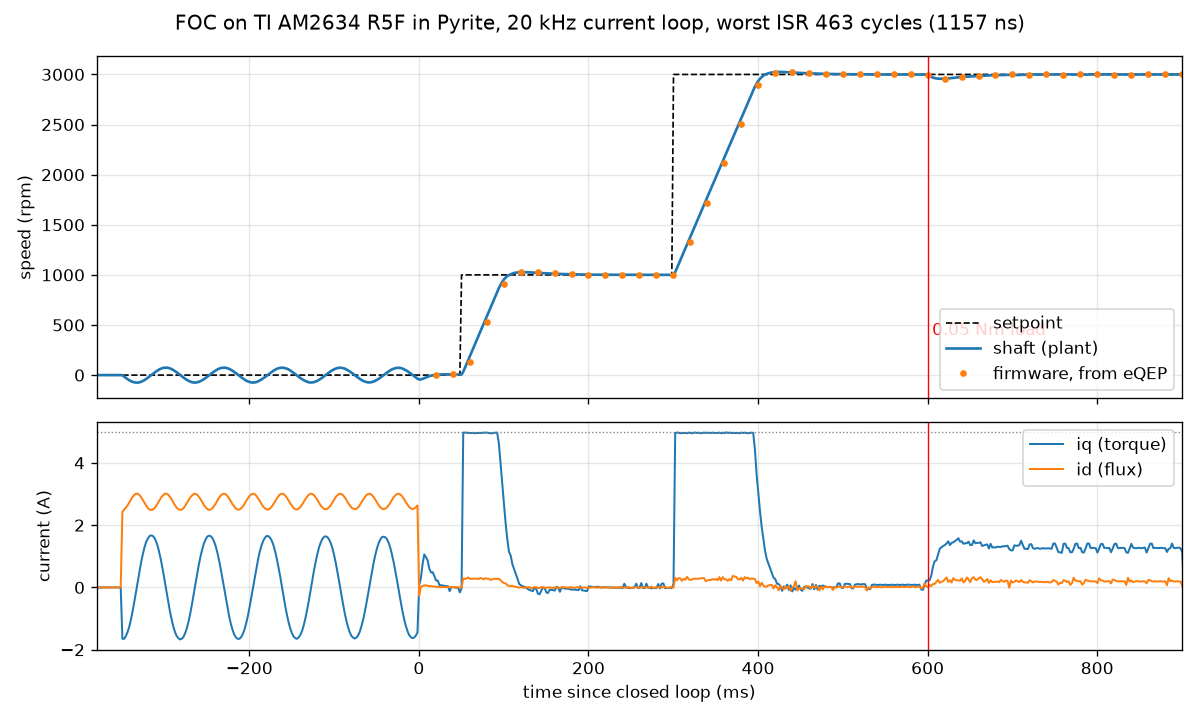
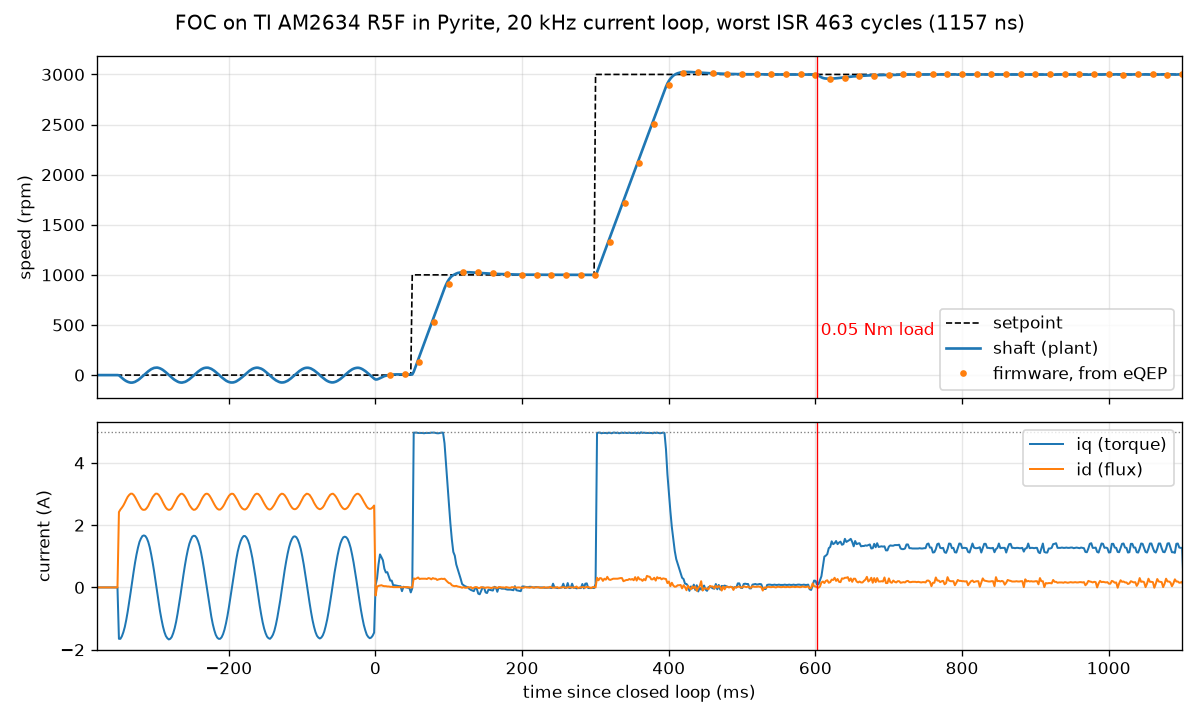
Apply the load relative to the shaft reaching speed, not a fixed time
The load came at a fixed 1.0 s of plant time, so any change to startup length moved it
against the firmware's timeline and the load tests judged the motor coasting after the
firmware stopped. The plant now applies it 200 ms after the shaft first reaches 2950 rpm,
and the firmware runs to 1100 ms.

diff --git a/sim/plant.py b/sim/plant.py
@@ -19,10 +19,11 @@ import os
 
 from pmsm import MOTOR
 
-PARAMS = dict(R=0.2, L=1e-4, PSI=0.004, J=1e-4, B=1e-5, VBUS=24.0, LOAD_NM=0.05, LOAD_AT_S=1.0)
+PARAMS = dict(R=0.2, L=1e-4, PSI=0.004, J=1e-4, B=1e-5, VBUS=24.0, LOAD_NM=0.05, LOAD_AFTER_S=0.2)
 PARAMS.update(json.loads(os.environ.get("PLANT", "{}")))
 R, L, PSI, J, B, VBUS = (PARAMS[k] for k in ("R", "L", "PSI", "J", "B", "VBUS"))
-LOAD_NM, LOAD_AT_S = PARAMS["LOAD_NM"], PARAMS["LOAD_AT_S"]
+LOAD_NM, LOAD_AFTER_S = PARAMS["LOAD_NM"], PARAMS["LOAD_AFTER_S"]
+LOAD_ARM_RPM = 2950  # the load comes on LOAD_AFTER_S after the shaft first reaches this
 P = 7
 V_PER_A, VBIAS = 0.1, 1.65
 LOG_S = 0.002
@@ -36,6 +37,7 @@ class Peripheral:
         self.ctx = ctx
         self.t = 0.0
         self.next_log = 0.0
+        self.load_at = None
         ctx.info(f"plant params {json.dumps(PARAMS, sort_keys=True)}")
         ctx.schedule_periodic(STEP_US)
 
@@ -52,7 +54,9 @@ class Peripheral:
         dt = STEP_US * 1e-6 / SUB
         mean = sum(duty) / 3
         vph = [VBUS * (d - mean) for d in duty]
-        tl = LOAD_NM if self.t >= LOAD_AT_S else 0.0
+        if self.load_at is None and MOTOR.wm * 60 / (2 * math.pi) >= LOAD_ARM_RPM:
+            self.load_at = self.t + LOAD_AFTER_S
+        tl = LOAD_NM if self.load_at is not None and self.t >= self.load_at else 0.0
         for _ in range(SUB):
             th = P * m.theta_m
             we = P * m.wm

diff --git a/tests/conftest.py b/tests/conftest.py
@@ -42,7 +42,7 @@ def simulate(params):
     sim = os.environ.get("SIM") or shutil.which("sim")
     assert sim, "no `sim` on PATH: install it (https://simantic.com/install) or set SIM=<path>"
     assert (ROOT / "fw/foc.release.out").exists(), "firmware not built: see README"
-    p = subprocess.run([sim, "run", "--scenario", str(ROOT / "sim/motor.yaml"), "--ascii", "--timeout", "1.5"],
+    p = subprocess.run([sim, "run", "--scenario", str(ROOT / "sim/motor.yaml"), "--ascii", "--timeout", "1.8"],
                        capture_output=True, text=True, timeout=300,
                        env={**os.environ, "PLANT": json.dumps(params)})
     assert p.returncode == 0, f"sim failed ({p.returncode}):\n{p.stdout}\n{p.stderr}"

diff --git a/fw/foc.c b/fw/foc.c
@@ -210,7 +210,7 @@ void foc_main(void)
                        ms, (int)ref, (int)rpm, (int)(gIq_meas * 1000), gIsrCycles);
             if (ms >= 200 && ms < 300) { n1++; ok1 += fabsf(rpm - 1000) < 20; }
             if (ms >= 500 && ms < 600) { n3++; ok3 += fabsf(rpm - 3000) < 60; }
-            if (ms >= 900) break;
+            if (ms >= 1100) break;
         }
     }
     uint32_t mhz = (uint32_t)(SOC_getSelfCpuClk() / 1000000u);

diff --git a/tools/plot.py b/tools/plot.py
@@ -28,7 +28,7 @@ b.axhline(5.0, color="grey", lw=0.8, ls=":")
 b.set_ylabel("current (A)")
 b.set_xlabel("time since closed loop (ms)")
 b.legend(loc="upper right")
-b.set_xlim(-380, 900)
+b.set_xlim(-380, 1100)
 for ax in (a, b):
     ax.axvline(load_ms, color="red", lw=0.8)
     ax.grid(alpha=0.3)

diff --git a/README.md b/README.md
@@ -12,7 +12,7 @@ Simantic's firmware simulator. No board or motor is needed to build, run or test
 - **The simulation** (`sim/`): the firmware binary runs unmodified on the simulated AM2634.
   `plant.py` is a PMSM (R 0.2 Ohm, L 100 uH, 7 pole pairs, 24 V bus) that reads the ePWM compare
   registers and drives the ADC pins; `encoder.py` turns the shaft angle into eQEP A/B edges.
-  The plant adds a 0.05 Nm load at 1.0 s.
+  The plant adds a 0.05 Nm load 200 ms after the shaft first reaches 2950 rpm.
 - **The tests** (`tests/`): pytest runs the scenario against five motors and checks the drive's
   step response, load rejection, limits and timing against the plant's true shaft.
 
@@ -27,7 +27,7 @@ own speed, from eQEP; the blue line is the plant's true shaft. `tools/plot.py` r
 ```sh
 make -C fw PROFILE=release MCU_PLUS_SDK_PATH=... CGT_TI_ARM_CLANG_PATH=... \
      SYSCFG_PATH=... SYSCFG_CLI_PATH=... foc.release.out   # run twice on a clean tree (SysConfig ordering)
-sim run --scenario sim/motor.yaml --ascii --timeout 1.5
+sim run --scenario sim/motor.yaml --ascii --timeout 1.8
 ```
 
 Needs TI MCU+ SDK for AM263x 26.00.00.06, TI Arm Clang 5.1.1 and SysConfig.
